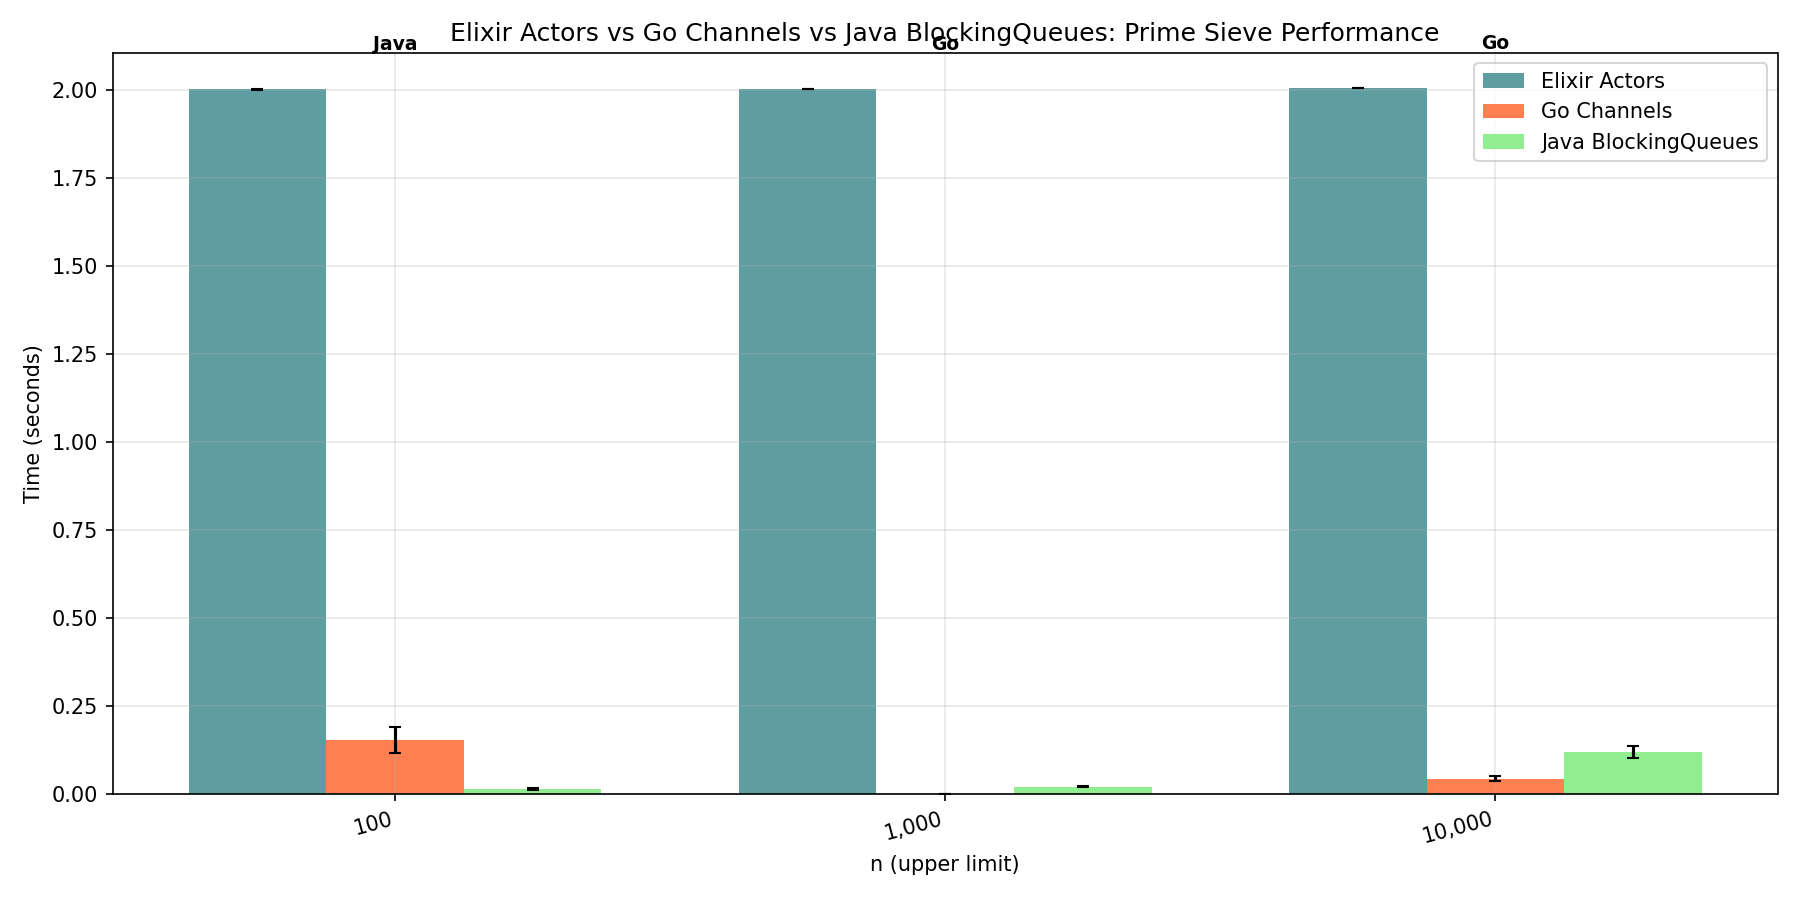
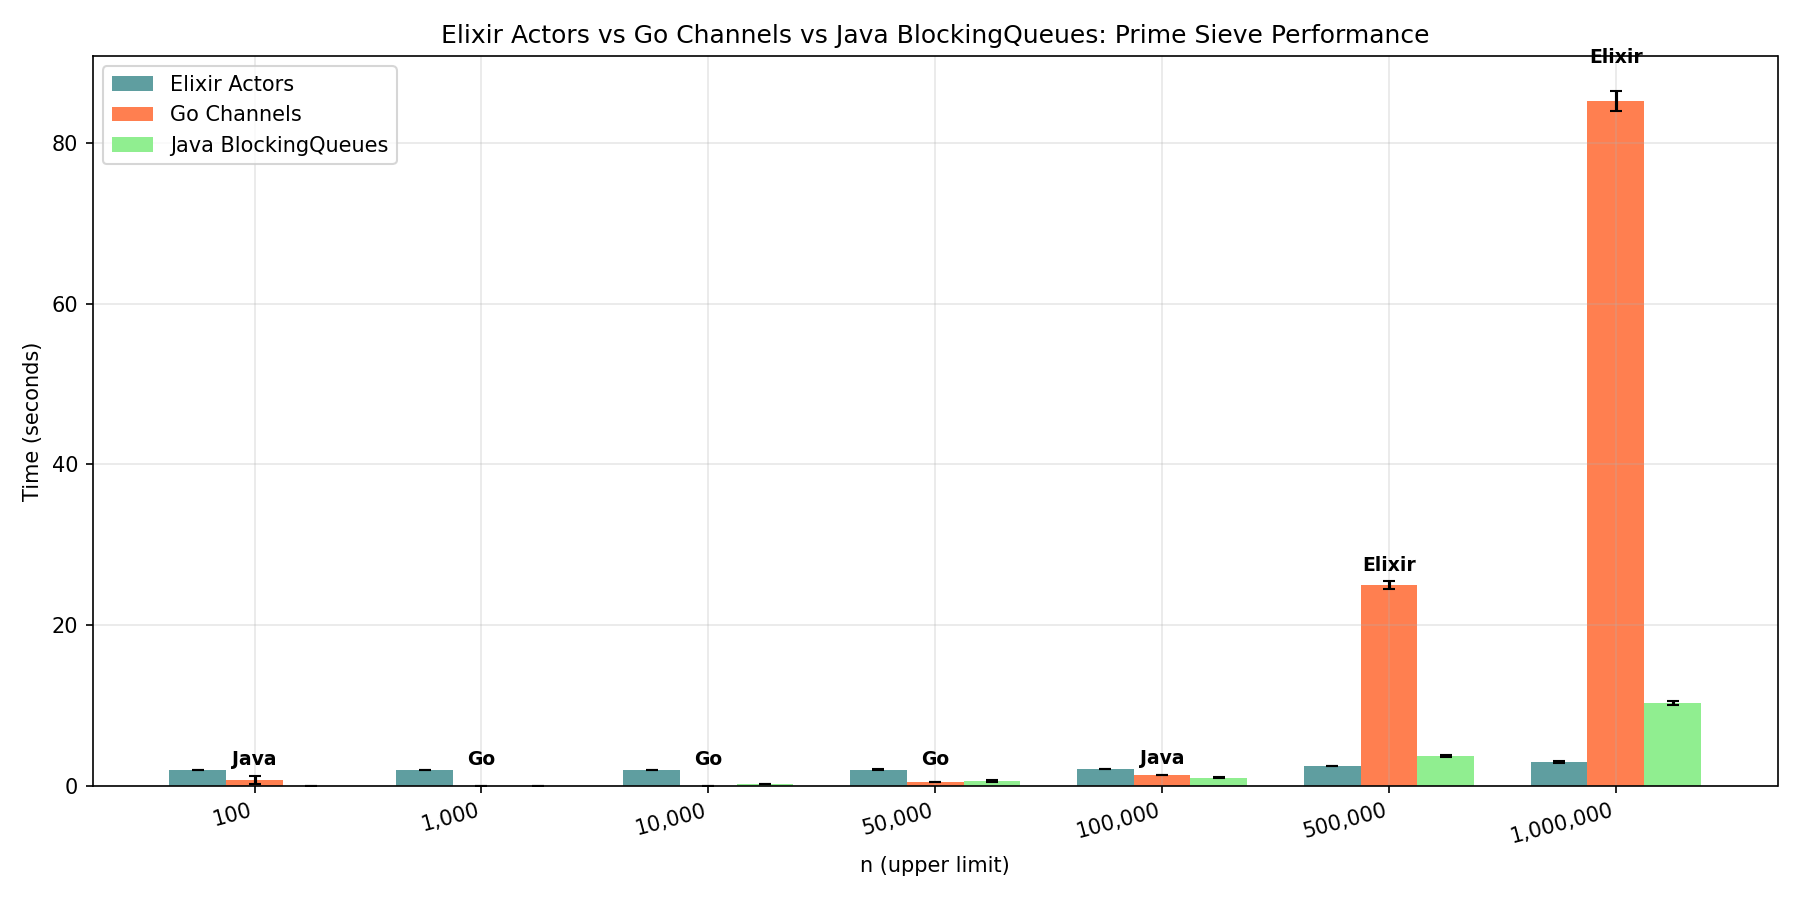
big run done

diff --git a/07_Actors/exercise/benchmark_primes.py b/07_Actors/exercise/benchmark_primes.py
@@ -377,10 +377,10 @@ def main():
         100,
         1000,
         10_000,  # Small
-        # 50_000,  # Medium-small
-        # 100_000,  # Medium
-        # 500_000,  # Medium-large
-        # 1_000_000,  # Large
+        50_000,  # Medium-small
+        100_000,  # Medium
+        500_000,  # Medium-large
+        1_000_000,  # Large
     ]
 
     results = []
